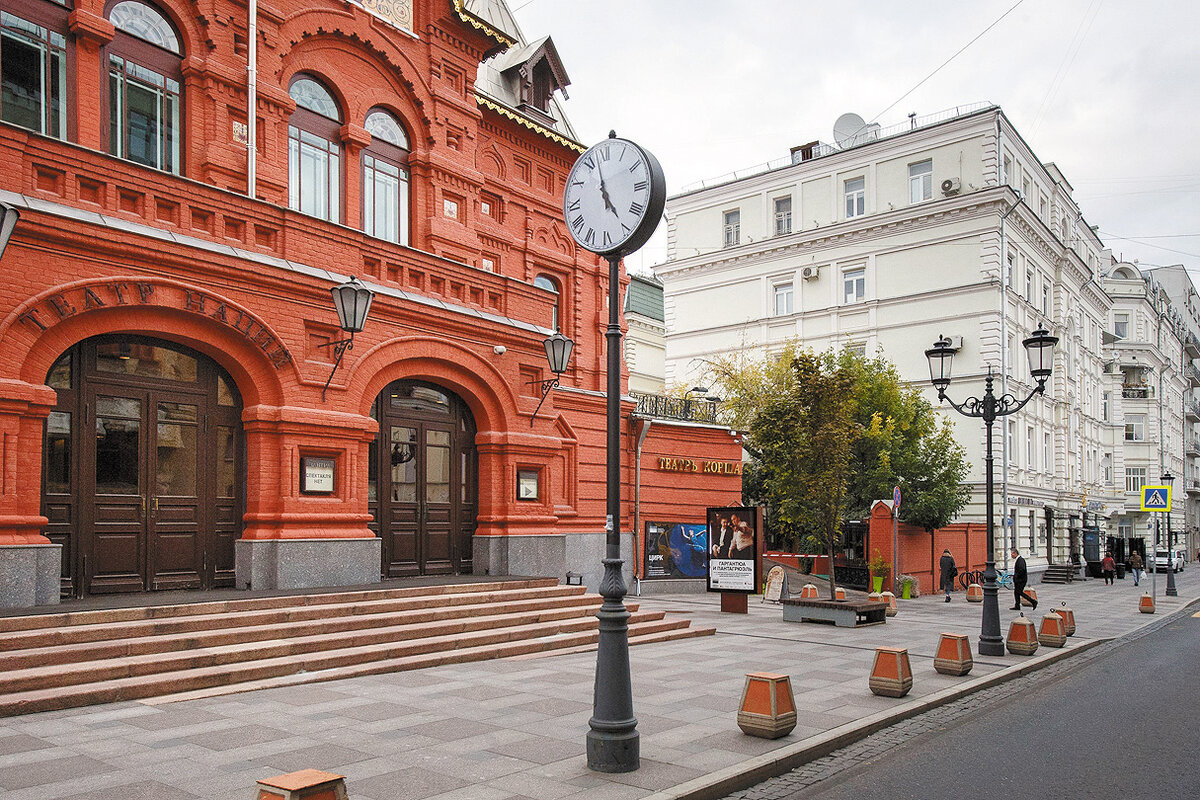
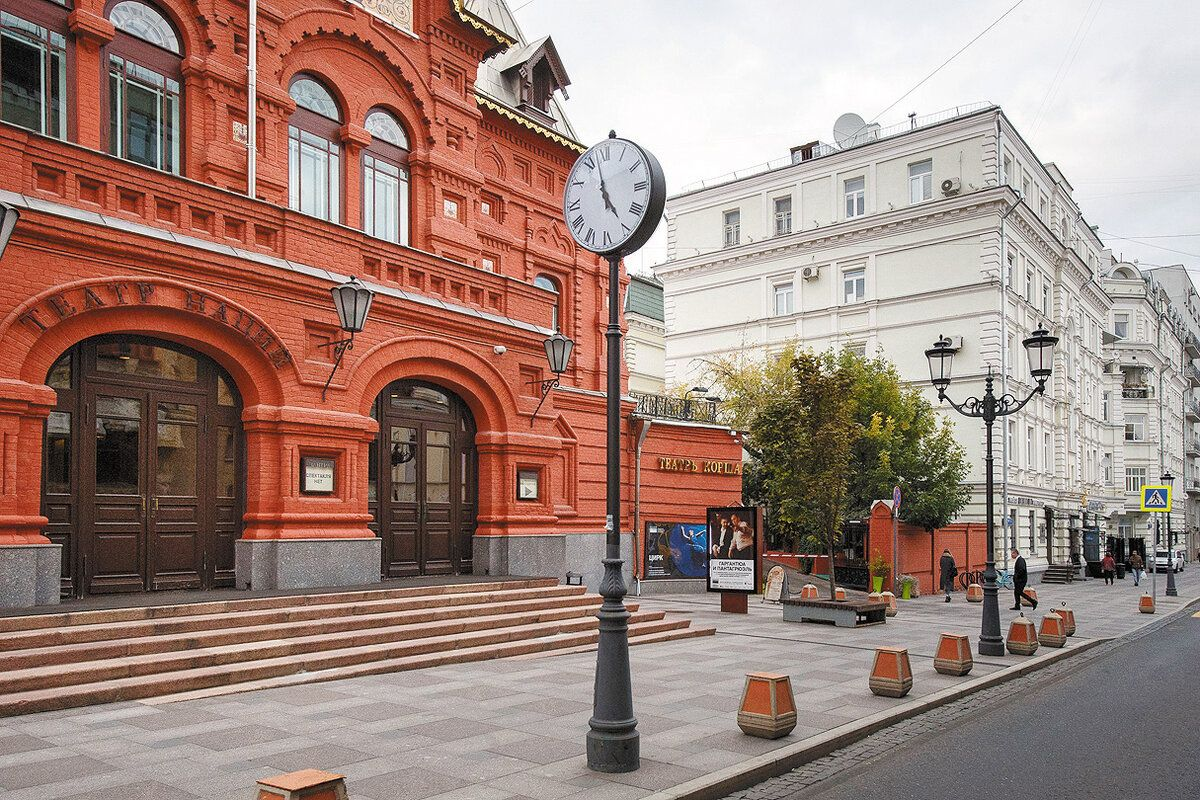
Мобильная версия: лёгкие фото, короче главная, закреплённые категории ленты
- Фото мест ужаты (17,4 → 5,5 МБ) + копии 640px в places/sm/ для карточек,
  превью, меток карты и 404 (photoSm в places.js)
- «Советуем заглянуть» на телефоне — горизонтальный ряд
- Категории ленты закреплены под шапкой; после смены категории — к началу
  ленты. html/body overflow-x: clip вместо hidden — иначе sticky не работал
- Кнопки не меньше 40–44px: чипы категорий, «Показать на карте», теги,
  ссылки и копирование почты в футере, ссылка на 404, сайт места
- Кнопка «наверх» — только при прокрутке вверх
- Страница места на телефоне: первый экран с фото ниже (60svh), тип места
  в «Похожих» сразу под названием
- Футер на телефоне: «Навигация» и «Где работаем» в две колонки
- Плашка типа в ленте — в одну строку; первый экран главной без пустой
  полосы; заголовки секций 20px; шапка ниже

Claude-Session: https://claude.ai/code/session_01C5CphNpDVRWo972NeZpS75

diff --git a/styles/pages/home.css b/styles/pages/home.css
@@ -1040,16 +1040,68 @@
   }
 }
 
+/* ===== Телефон: главная короче, лента удобнее (ревью мобильной версии) ===== */
+@media (max-width: 767px) {
+  /* Первый экран по содержимому: без пустой полосы под кнопкой рандомайзера,
+     следующий блок выглядывает сильнее — подсказка «листай дальше» */
+  .hero { min-height: 0; padding-bottom: calc(32px + var(--hero-wave-h)); }
+
+  /* «Советуем заглянуть» — горизонтальный ряд, как «Сейчас в центре
+     внимания»: две большие карточки одна под другой занимали почти два экрана */
+  .suggested-grid {
+    display: flex;
+    gap: 12px;
+    width: calc(100% + 32px);
+    margin-inline: -16px;
+    padding: 4px 16px 16px;
+    overflow-x: auto;
+    scroll-snap-type: x mandatory;
+    scroll-padding-inline: 16px;
+    scrollbar-width: none;
+  }
+  .suggested-grid::-webkit-scrollbar { display: none; }
+  .suggested-card { flex: 0 0 min(78%, 300px); scroll-snap-align: start; }
+  .suggested-content h3 { font-size: var(--fs-md); }
+  .suggested-content p {
+    font-size: var(--fs-sm);
+    display: -webkit-box;
+    -webkit-line-clamp: 3;
+    -webkit-box-orient: vertical;
+    overflow: hidden;
+  }
+
+  /* Категории ленты закреплены под шапкой, пока листаешь ленту: чтобы
+     сменить фильтр, не нужно возвращаться наверх. Поиск остаётся на месте */
+  .place-section .categories_menu { display: contents; }
+  .place-section .categories_scroll {
+    position: sticky;
+    top: var(--header-h);
+    z-index: 50;
+    margin-inline: -16px;
+    padding: 10px 16px;
+    background: var(--bg);
+    box-shadow: 0 8px 12px -12px rgba(40, 20, 10, 0.35);
+  }
+  .place-section .category-search-group { margin-top: 6px; }
+}
+
 @media (max-width: 575px) {
   .places-grid .place-card__top { top: 10px; left: 10px; right: 10px; gap: 4px; }
   .places-grid .place-card__category,
   .places-grid .badge-temporary { font-size: var(--fs-caption); padding: 3px 8px; }
+  /* Длинный тип («Музей современного искусства») — в одну строку */
+  .places-grid .place-card__category {
+    max-width: 100%;
+    white-space: nowrap;
+    overflow: hidden;
+    text-overflow: ellipsis;
+  }
   .places-grid .place-card__info { padding: 10px 12px; }
   .places-grid .place-card__info h3 { font-size: var(--fs-md); line-height: 1.2; }
 }
 
 @media (max-width: 480px) {
-  .category-btn { padding: 10px 16px; font-size: var(--fs-sm); }
+  .category-btn { padding: 0 16px; font-size: var(--fs-sm); }
 
   .state-screen { padding: 48px 0; }
   .site-footer__top { gap: 28px; }

diff --git a/styles/pages/place.css b/styles/pages/place.css
@@ -238,6 +238,13 @@
   .hero-actions { display: none; }
 }
 
+/* Телефон: первый экран с фото ниже — под ним сразу видны адрес и часы */
+@media (max-width: 767px) {
+  .place-hero:not(.place-hero--no-photo) { height: 60svh; min-height: 420px; }
+  /* Тип места — сразу под названием, без пустоты между ними */
+  .similar-card .info p { margin-top: 0; }
+}
+
 @media (max-width: 480px) {
   .hero-title { font-size: var(--fs-2xl); }
   .hero-subtitle { font-size: var(--fs-md); }
@@ -338,7 +345,14 @@
   line-height: 1.45;
 }
 
-.info-row__value a { color: inherit; text-decoration: none; }
+.info-row__value a {
+  color: inherit;
+  text-decoration: none;
+  /* строка-ссылка выше, чем текст: удобно попасть пальцем */
+  display: inline-block;
+  padding: 9px 0;
+  margin: -9px 0;
+}
 .info-row__value a:hover { color: var(--primary-text); }
 
 /* Адрес сайта не переносится посреди слова — обрезается многоточием */
@@ -357,6 +371,9 @@
 }
 
 .map-link-btn {
+  display: inline-flex;
+  align-items: center;
+  min-height: 40px; /* удобно попасть пальцем */
   background: none;
   border: none;
   color: var(--primary-text);
@@ -364,7 +381,7 @@
   font-weight: 600;
   cursor: pointer;
   padding: 0;
-  margin-top: 6px;
+  margin: -2px 0 -8px;
   font-size: var(--fs-sm);
   text-decoration: underline;
   text-underline-offset: 3px;
@@ -396,7 +413,13 @@
 
 .info-card--mood .tags-section { gap: 8px; }
 
-.info-card--mood .tag-chip { padding: 6px 13px; font-size: var(--fs-xs); }
+.info-card--mood .tag-chip {
+  display: inline-flex;
+  align-items: center;
+  min-height: 40px;
+  padding: 0 14px;
+  font-size: var(--fs-xs);
+}
 
 .tags-section {
   display: flex;
@@ -471,8 +494,9 @@
   align-items: center;
   gap: 6px;
   font-size: var(--fs-sm);
-  padding: 8px 0;
-  margin-top: 8px;
+  min-height: 44px;
+  padding: 0;
+  margin-top: 4px;
 }
 
 .suggestion-edit:hover {

diff --git a/scripts/components/feed.js b/scripts/components/feed.js
@@ -178,8 +178,18 @@ export function initFeed(allPlaces, { pageSize = PAGE_SIZE } = {}) {
   // --- UI: вкладки категорий ---
   on($('#categories-scroll'), 'click', '.scroll__category-btn', (e, btn) => {
     e.preventDefault();
+    const bar = btn.parentElement;
     setCategory(btn.dataset.category);
-    btn.scrollIntoView({ behavior: 'smooth', block: 'nearest', inline: 'center' });
+    // Выбранную вкладку — к центру ряда (только по горизонтали: scrollIntoView
+    // двигал бы и страницу)
+    bar.scrollTo({ left: btn.offsetLeft - (bar.clientWidth - btn.offsetWidth) / 2, behavior: 'smooth' });
+    // На телефоне ряд закреплён и нажимают его посреди ленты: новая лента
+    // короче, и человек оставался бы внизу, у футера. Возвращаем к её началу
+    const grid = $('#places-container');
+    const barBottom = bar.getBoundingClientRect().bottom;
+    if (grid && grid.getBoundingClientRect().top < barBottom) {
+      window.scrollTo({ top: grid.getBoundingClientRect().top + window.scrollY - barBottom - 8, behavior: 'smooth' });
+    }
   });
 
   // --- UI: поиск в ленте (debounce) ---

diff --git a/styles/layout/footer.css b/styles/layout/footer.css
@@ -91,7 +91,9 @@
 .site-footer__col a {
   color: rgba(255, 255, 255, 0.6);
   font-size: var(--fs-sm);
-  margin-bottom: 12px;
+  /* высота строки-ссылки 40px — удобно попасть пальцем */
+  padding: 9px 0;
+  margin: -9px 0 3px;
   transition: color 0.2s ease;
   width: fit-content;
 }
@@ -113,7 +115,7 @@
 }
 
 .site-footer__col .footer-email__link {
-  margin-bottom: 0;
+  margin: 0;
   color: #fff;
   font-weight: 600;
   overflow-wrap: anywhere;
@@ -126,8 +128,8 @@
   display: flex;
   align-items: center;
   justify-content: center;
-  width: 32px;
-  height: 32px;
+  width: 40px;
+  height: 40px;
   border: 1px solid rgba(255, 255, 255, 0.2);
   border-radius: 50%;
   background: transparent;
@@ -138,6 +140,13 @@
 }
 
 .footer-email__copy:hover { background: rgba(255, 255, 255, 0.12); color: #fff; }
+
+/* Телефон: «Навигация» и «Где работаем» — в две колонки, футер вдвое короче */
+@media (max-width: 767px) {
+  .site-footer__top { grid-template-columns: 1fr 1fr; column-gap: 20px; }
+  .site-footer__brand,
+  .site-footer__top > .site-footer__col:last-child { grid-column: 1 / -1; }
+}
 
 .site-footer__bottom {
   padding: 22px 0;

diff --git a/scripts/components/card.js b/scripts/components/card.js
@@ -28,7 +28,7 @@ export function cardHtml(place, isFavorite, extraClass = '') {
         <div class="place-card__category">${escapeHtml(place.type || categoryLabel(place.category))}</div>${favButtonHtml(place, isFavorite)}
         ${badge}
       </div>
-      <img src="${escapeHtml(place.photo || '')}" alt="${escapeHtml(place.name)}" class="place-card__img" loading="lazy">
+      <img src="${escapeHtml(place.photoSm || place.photo || '')}" alt="${escapeHtml(place.name)}" class="place-card__img" loading="lazy">
       <div class="place-card__info"><h3>${escapeHtml(place.name)}</h3></div>
     </div>`;
 }
@@ -36,7 +36,7 @@ export function cardHtml(place, isFavorite, extraClass = '') {
 export function similarCardHtml(place) {
   return `
     <a href="${placeUrl(place.slug)}" class="similar-card">
-      <img src="${escapeHtml(place.photo || '')}" alt="${escapeHtml(place.name)}" loading="lazy">
+      <img src="${escapeHtml(place.photoSm || place.photo || '')}" alt="${escapeHtml(place.name)}" loading="lazy">
       <div class="info">
         <h4>${escapeHtml(place.name)}</h4>
         <p>${escapeHtml(place.type || categoryLabel(place.category))}</p>

diff --git a/scripts/core/places.js b/scripts/core/places.js
@@ -34,6 +34,14 @@ export function resolvePhoto(path) {
   return path || '';
 }
 
+/** Уменьшенная копия (640px) для карточек и превью: у фото мест она лежит
+ *  в assets/images/places/sm/ с тем же именем. Полноразмерное фото — только
+ *  для первого экрана страницы места. */
+export function smallPhoto(path) {
+  const m = /^assets\/images\/places\/([^/]+)$/.exec(path || '');
+  return m ? `assets/images/places/sm/${m[1]}` : (path || '');
+}
+
 let cache = null;
 let inFlight = null;
 
@@ -44,6 +52,7 @@ function normalize(raw) {
     return {
       ...place,
       photo: resolvePhoto(place.photo),
+      photoSm: smallPhoto(resolvePhoto(place.photo)),
       // Локальные просмотры больше не считаем: из-за них «Избранное от
       // города» у каждого посетителя было своим. Старые дельты игнорируем.
       views: place.views || 0,

diff --git a/scripts/components/map.js b/scripts/components/map.js
@@ -70,7 +70,7 @@ function getLayouts() {
 function createPlacemark(place, { labeled = false } = {}) {
   const placemark = new ymaps.Placemark(
     place.coords,
-    { name: place.name, photo: place.photo || '', slug: place.slug },
+    { name: place.name, photo: place.photoSm || place.photo || '', slug: place.slug },
     {
       iconLayout: labeled ? getLayouts().pinLabeled : getLayouts().pin,
       iconShape: PIN_SHAPE,
@@ -141,7 +141,7 @@ function createMapCard(container, { onClose } = {}) {
     card.setAttribute('aria-label', place.name);
     card.innerHTML = `
       <a class="map-card__link" href="${placeUrl(place.slug)}">
-        <span class="map-card__photo" style='background-image: ${cssUrl(place.photo)}'></span>
+        <span class="map-card__photo" style='background-image: ${cssUrl(place.photoSm || place.photo)}'></span>
         <span class="map-card__body">
           <span class="map-card__meta">
             <span class="map-card__type">${escapeHtml(type)}</span>

diff --git a/scripts/ui.js b/scripts/ui.js
@@ -54,8 +54,17 @@ const initUserMenu = () => {
 const initBackToTop = () => {
   const btn = document.getElementById('back-to-top');
   if (!btn) return;
+  // Кнопка появляется, только когда человек сам листает вверх: при
+  // прокрутке вниз она закрывала карточки ленты в правом нижнем углу
   let ticking = false;
-  const sync = () => { btn.classList.toggle('show', window.scrollY > 600); ticking = false; };
+  let lastY = window.scrollY;
+  const sync = () => {
+    const y = window.scrollY;
+    if (y < 600 || y > lastY + 4) btn.classList.remove('show');
+    else if (y < lastY - 4) btn.classList.add('show');
+    lastY = y;
+    ticking = false;
+  };
   window.addEventListener('scroll', () => {
     if (!ticking) { ticking = true; requestAnimationFrame(sync); }
   }, { passive: true });

diff --git a/styles/base/reset.css b/styles/base/reset.css
@@ -5,9 +5,15 @@
 }
 
 html, body {
-  /* Любой выступающий за вьюпорт элемент больше не даёт горизонтальную прокрутку */
+  /* Любой выступающий за вьюпорт элемент больше не даёт горизонтальную
+     прокрутку. clip, а не hidden: hidden делал body отдельным контейнером
+     прокрутки, и position: sticky (категории ленты на телефоне) не работал */
   overflow-x: hidden;
   max-width: 100%;
+}
+
+@supports (overflow-x: clip) {
+  html, body { overflow-x: clip; }
 }
 
 /* Атрибут hidden должен скрывать элемент, даже если у класса задан display */

diff --git a/404.html b/404.html
@@ -108,7 +108,7 @@
         const picks = sample(places, 3);
         box.innerHTML = picks.map((p) => `
           <a class="state-card" href="${placeUrl(p.slug)}">
-            <img src="${escapeHtml(p.photo)}" alt="" loading="lazy">
+            <img src="${escapeHtml(p.photoSm || p.photo)}" alt="" loading="lazy">
             <span class="state-card__name">${escapeHtml(p.name)}</span>
             <span class="state-card__type">${escapeHtml(p.type || categoryLabel(p.category))}</span>
           </a>`).join('');

diff --git a/styles/base/typography.css b/styles/base/typography.css
@@ -25,7 +25,9 @@ h1, h2, h3, h4, h5, h6 {
 }
 
 .section-title {
-  font-size: var(--fs-xl); /* мобильный; Unbounded широкий — крупнее переносится */
+  /* мобильный; Unbounded широкий — крупнее переносится (на 375px
+     «Сейчас в центре внимания» при 22px уходил на две строки) */
+  font-size: 1.25rem;
   line-height: 1.2;
   text-align: left;
   color: var(--text);

diff --git a/styles/components/filters.css b/styles/components/filters.css
@@ -244,7 +244,11 @@
    белая «таблетка» с тонкой рамкой, выбранная — тёмная */
 .category-btn {
   flex-shrink: 0;
-  padding: 10px 18px;
+  display: inline-flex;
+  align-items: center;
+  gap: 6px;
+  min-height: 44px; /* удобно попасть пальцем */
+  padding: 0 18px;
   border-radius: var(--radius-pill);
   background: var(--card-bg);
   border: 1px solid var(--line);
